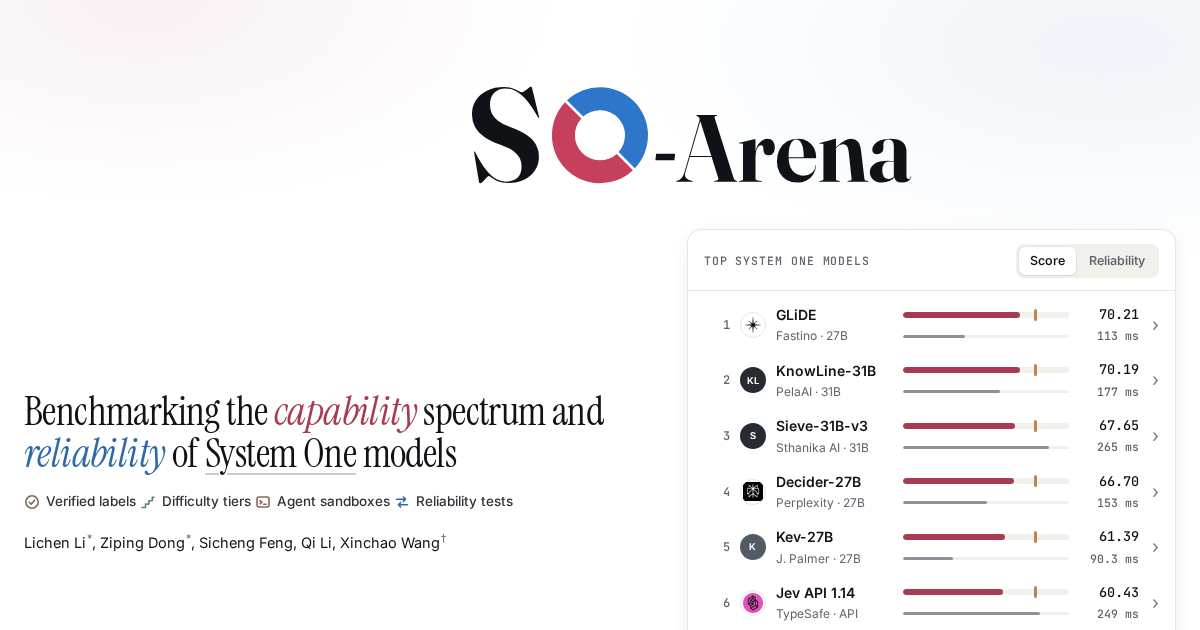
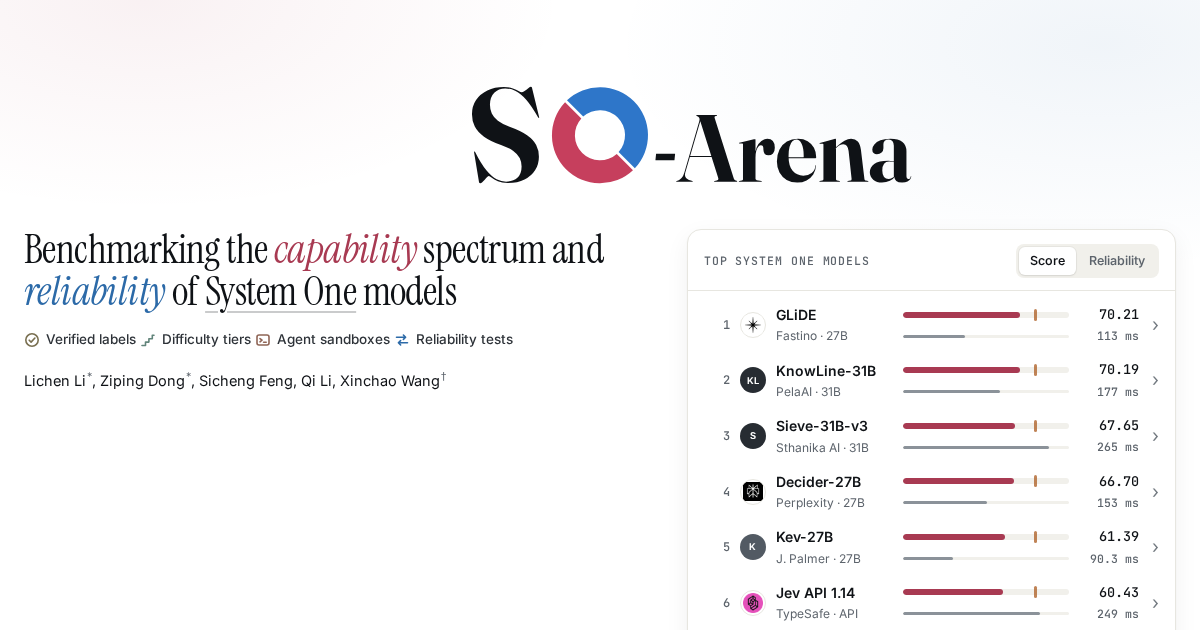
Hero: key results fill the left column as a 2 x 2 grid, level with the leaderboard card; no empty space above the subtitle (user)
Claude-Session: https://claude.ai/code/session_01636tz9RwzvgsvAXB1VTh26

diff --git a/assets/css/site.css b/assets/css/site.css
@@ -692,3 +692,23 @@ dialog.drawer::backdrop { background: rgba(15, 18, 22, .28); animation: fade .28
 /* race: one speed for both bars, so each ends at its time; System One's bar stays a short stub */
 .race .r1 .trk i { width: calc(100% * 113 / 2698); min-width: 5px; }
 .kr .big .arr { display: inline-block; margin: 0 10px; font: 400 26px/1 var(--sans); color: var(--muted); vertical-align: 6px; }
+
+/* ---- hero: the key results fill the left column (2 x 2), level with the leaderboard card ---- */
+.hero-grid { align-items: start; }
+.hero .kres { grid-template-columns: repeat(2, minmax(0, 1fr)); margin: 30px 0 0; border-bottom: 0; }
+.hero .kr { padding: 18px 20px 16px 0; border-left: 0; }
+.hero .kr:nth-child(2n) { padding-left: 20px; border-left: 1px solid var(--line); }
+.hero .kr:nth-child(n+3) { border-top: 1px solid var(--line); }
+.hero .kr > .info { top: 20px; right: 6px; }
+.hero .kr:nth-child(2n) > .info { right: 0; }
+.hero .kr .big { font-size: 34px; }
+.hero .kr .big small { font-size: 17px; }
+.hero .kr .big .arr { font-size: 22px; vertical-align: 5px; margin: 0 8px; }
+.hero .kr h3 { margin: 8px 0 0; font-size: 14px; }
+.hero .kr .mini { margin-top: 10px; gap: 6px; }
+@media (max-width: 1080px) { .hero .kres { margin-top: 28px; } }
+@media (max-width: 760px) {
+  .hero .kres { grid-template-columns: 1fr; }
+  .hero .kr, .hero .kr:nth-child(2n) { padding: 16px 0; border-left: 0; }
+  .hero .kr + .kr { border-top: 1px solid var(--line); }
+}

diff --git a/index.html b/index.html
@@ -16,7 +16,7 @@
 <link rel="icon" href="assets/img/favicon.svg?v=9d2ac14038" type="image/svg+xml">
 <link rel="preload" href="assets/fonts/inter-var.woff2" as="font" type="font/woff2" crossorigin>
 <link rel="preload" href="assets/fonts/instrument-serif.woff2" as="font" type="font/woff2" crossorigin>
-<link rel="stylesheet" href="assets/css/site.css?v=ff8ecaa805">
+<link rel="stylesheet" href="assets/css/site.css?v=af6d8fc42d">
 <script defer src="assets/js/data.js?v=79cc9fcc40"></script>
 <script defer src="assets/js/app.js?v=42d69af02f"></script>
 </head>
@@ -58,10 +58,10 @@
             <a class="btn" href="https://github.com/holdrain/SO-Arena" target="_blank" rel="noopener">Code <span aria-hidden="true">↗</span></a>
             <a class="btn" href="https://huggingface.co/SO-Arena" target="_blank" rel="noopener">Dataset <span aria-hidden="true">↗</span></a>
           </div>
+          <div class="kres" id="kres" aria-label="Key results"></div>
         </div>
         <div class="board" id="board" data-anim="0" aria-label="Top System One models"></div>
       </div>
-      <div class="kres" id="kres" aria-label="Key results"></div>
     </div>
   </section>
 
